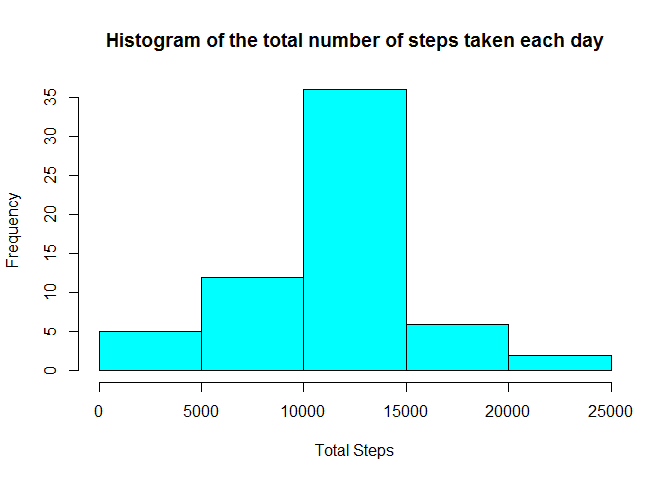
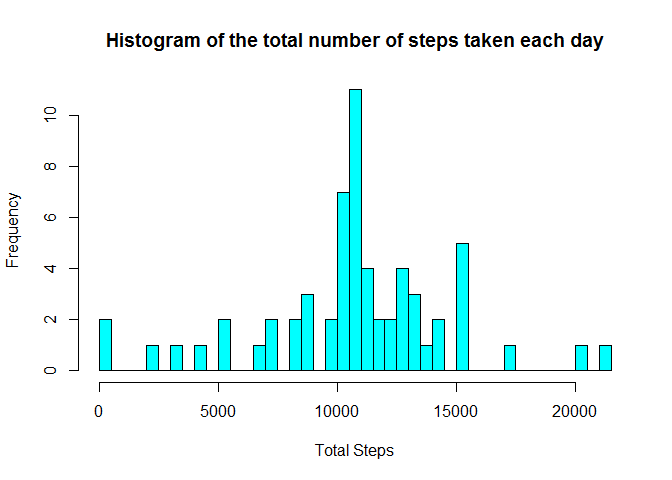
Committed file

diff --git a/PA1_template.html b/PA1_template.html
@@ -130,8 +130,9 @@ cat('Subset of the Total number of steps taken per day')</code></pre>
 hist(x = df_Activity_Sum_Steps_By_Date$Total_Steps_Per_Day,
      main = 'Histogram of the total number of steps taken each day',
      xlab = 'Total Steps',
+     breaks = 50,
      col = 'Pink')</code></pre>
[2 lines of base64/hex data omitted]
 <pre class="r"><code>## Barplot
 
 ## Load ggplot2 library - Make sure the library is installed first
@@ -238,7 +239,7 @@ cat('Total number of rows with NAs =', Total_NA_Rows)</code></pre>
 </ol>
 <p><strong>Strategy employed to fill in NA values:-</strong></p>
 <blockquote>
-<p>Use the Average number of steps for all intervals within a day.</p>
+<p>Use the Average number of steps for <strong>all</strong> intervals within a day.</p>
 </blockquote>
 <p><strong>Formula</strong></p>
 <blockquote>
@@ -327,8 +328,9 @@ cat('Subset of the Total number of steps taken per day (after NA filled)')</code
 hist(x = df_Activity_Sum_Steps_By_Date_2$Total_Steps_Per_Day,
      main = 'Histogram of the total number of steps taken each day',
      xlab = 'Total Steps',
+     breaks = 50,
      col = 'Cyan')</code></pre>
[2 lines of base64/hex data omitted]
 <pre class="r"><code>## Calculate the new Mean Steps Per Day
 New_Mean_Steps_Per_Day &lt;- mean(df_Activity_Sum_Steps_By_Date_2$Total_Steps_Per_Day)
 
@@ -344,9 +346,9 @@ cat('For total number of steps taken each day (after NA filled):-',
 ## New Median = 10766.19</code></pre>
 <p>
 <p><font color="Purple"> Q: Do these values differ from the estimates from the first part of the assignment? </font></p>
-<p><font color="Red"> A: Yes. The Median total number of steps per day has increased slightly from <strong>10,765</strong> to <strong>10,766.19</strong>. </font></p>
+<p><font color="Red"> A: Yes. The Median of the total number of steps per day has increased from <strong>10,765</strong> to <strong>10,766.19</strong>. </font></p>
 <p><font color="Purple"> Q: What is the impact of imputing missing data on the estimates of the total daily number of steps? </font></p>
-<font color="Red"> A: It causes the frequency of steps between the range of <strong>10000 to 15000</strong> to increase. </font>
+<font color="Red"> A: It causes the frequency of steps at the Median <strong>(10,766.19)</strong> to increase. </font>
 </p>
 </div>
 <div id="are-there-differences-in-activity-patterns-between-weekdays-and-weekends" class="section level2">

diff --git a/PA1_template.md b/PA1_template.md
@@ -81,6 +81,7 @@ head(df_Activity_Sum_Steps_By_Date, 20L)
 hist(x = df_Activity_Sum_Steps_By_Date$Total_Steps_Per_Day,
      main = 'Histogram of the total number of steps taken each day',
      xlab = 'Total Steps',
+     breaks = 50,
      col = 'Pink')
 ```
 
@@ -221,7 +222,7 @@ cat('Total number of rows with NAs =', Total_NA_Rows)
 
 **Strategy employed to fill in NA values:-**
 
-> Use the Average number of steps for all intervals within a day.
+> Use the Average number of steps for **all** intervals within a day.
 
 **Formula**
 
@@ -342,6 +343,7 @@ head(df_Activity_Sum_Steps_By_Date_2, 20L)
 hist(x = df_Activity_Sum_Steps_By_Date_2$Total_Steps_Per_Day,
      main = 'Histogram of the total number of steps taken each day',
      xlab = 'Total Steps',
+     breaks = 50,
      col = 'Cyan')
 ```
 
@@ -370,20 +372,20 @@ cat('For total number of steps taken each day (after NA filled):-',
 <font color = 'Purple'>
 Q: Do these values differ from the estimates from the first part of the assignment?
 </font>
-
+  
 <font color = 'Red'>
-A: Yes. The Median total number of steps per day has increased slightly from **10,765** to **10,766.19**.
+A: Yes. The Median of the total number of steps per day has increased from **10,765** to **10,766.19**.
 </font>
-
+  
 <font color = 'Purple'>
 Q: What is the impact of imputing missing data on the estimates of the total daily number of steps?
 </font>
-
+  
 <font color = 'Red'>
-A: It causes the frequency of steps between the range of **10000 to 15000** to increase.
+A: It causes the frequency of steps at the Median **(10,766.19)** to increase.
 </font>
 </p>
-
+  
 ## Are there differences in activity patterns between weekdays and weekends?
 
 For this part the weekdays() function may be of some help here. Use the dataset with the filled-in missing values for this part.
@@ -481,19 +483,19 @@ xyplot(steps ~ interval | daytype,
 <font color = 'Purple'>
 Q: Are there differences in activity patterns between weekdays and weekends?
 </font>
-
+  
 <font color = 'Red'>
 A: Yes.
 </font>
-
+  
 For <font color = 'Green'><b>weekends</b></font> - the activity starts later at around interval <font color = 'Red'>**700**</font> and <font color = 'Red'>**peaks twice**</font> around intervals <font color = 'Red'>**800 and 900**</font>.<br>
 Then it flutuates between intervals <font color = 'Red'>**1000 and 2000**</font> but at higher level than weekdays.<br>
 At an interval later than <font color = 'Red'>**2000**</font> the activity decreases.
-
+  
 For <font color = 'Blue'><b>weekdays</b></font> - the activity starts earlier at interval <font color = 'Red'>**500**</font> and <font color = 'Red'>**peaks once**</font> around intervals <font color = 'Red'>**800 and 900**</font>.<br>
 Then it fluctuates between intervals <font color = 'Red'>**1000 and 2000**</font> but at a lower level than weekends.<br>
 At interval <font color = 'Red'>**2000**</font> onwards the activity decreases.
 <br><br>
 </p>
-
+  
 **~ END ~**
